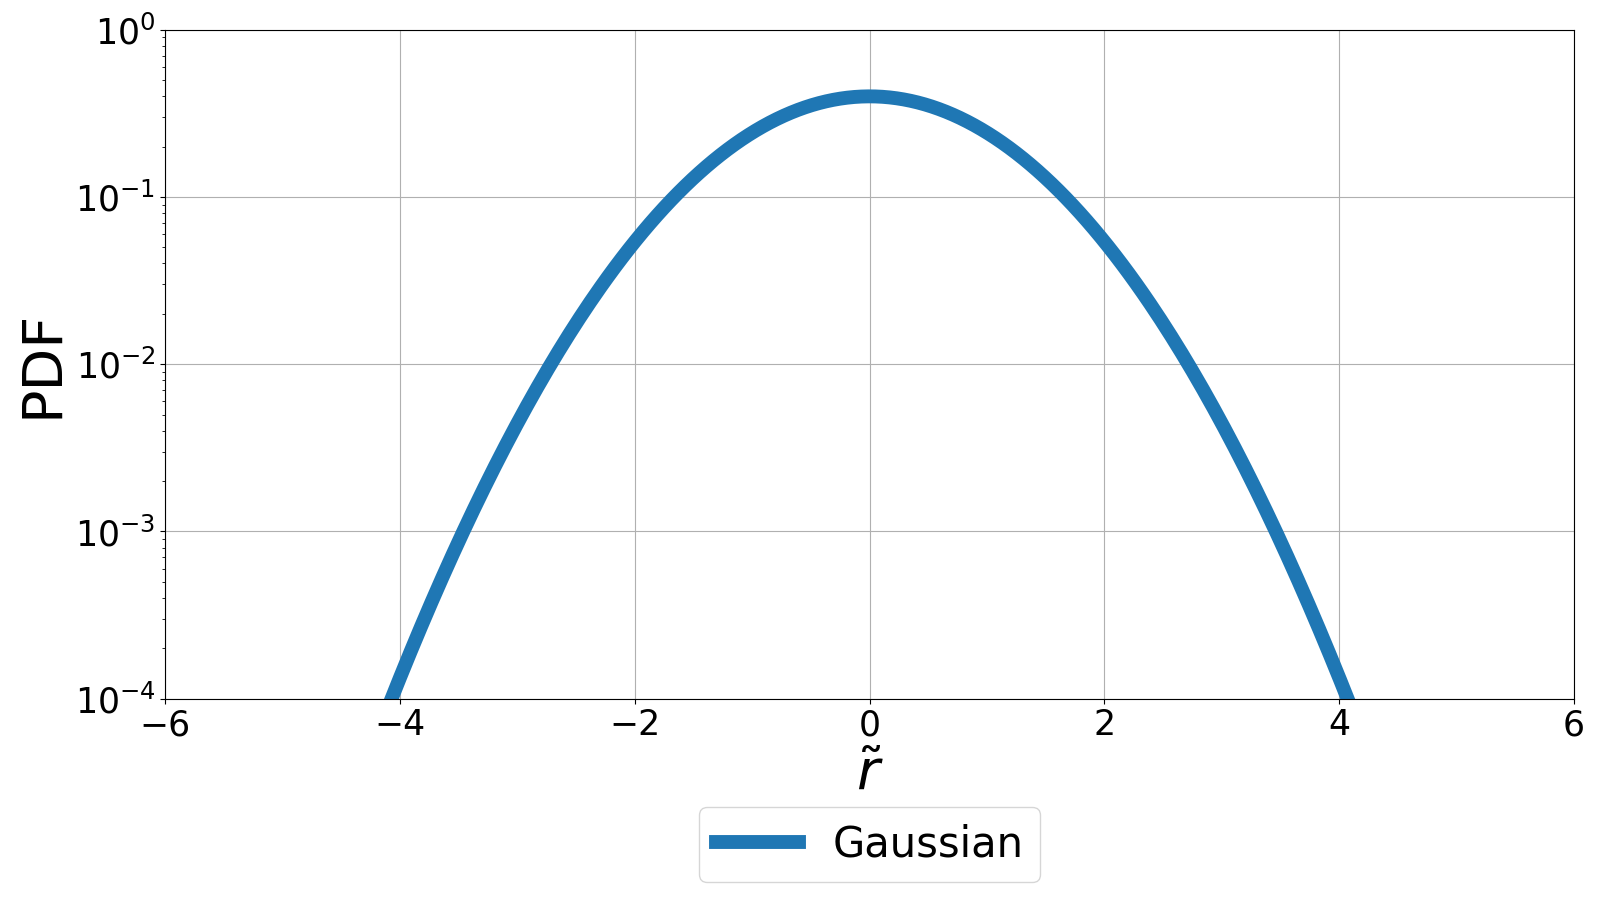
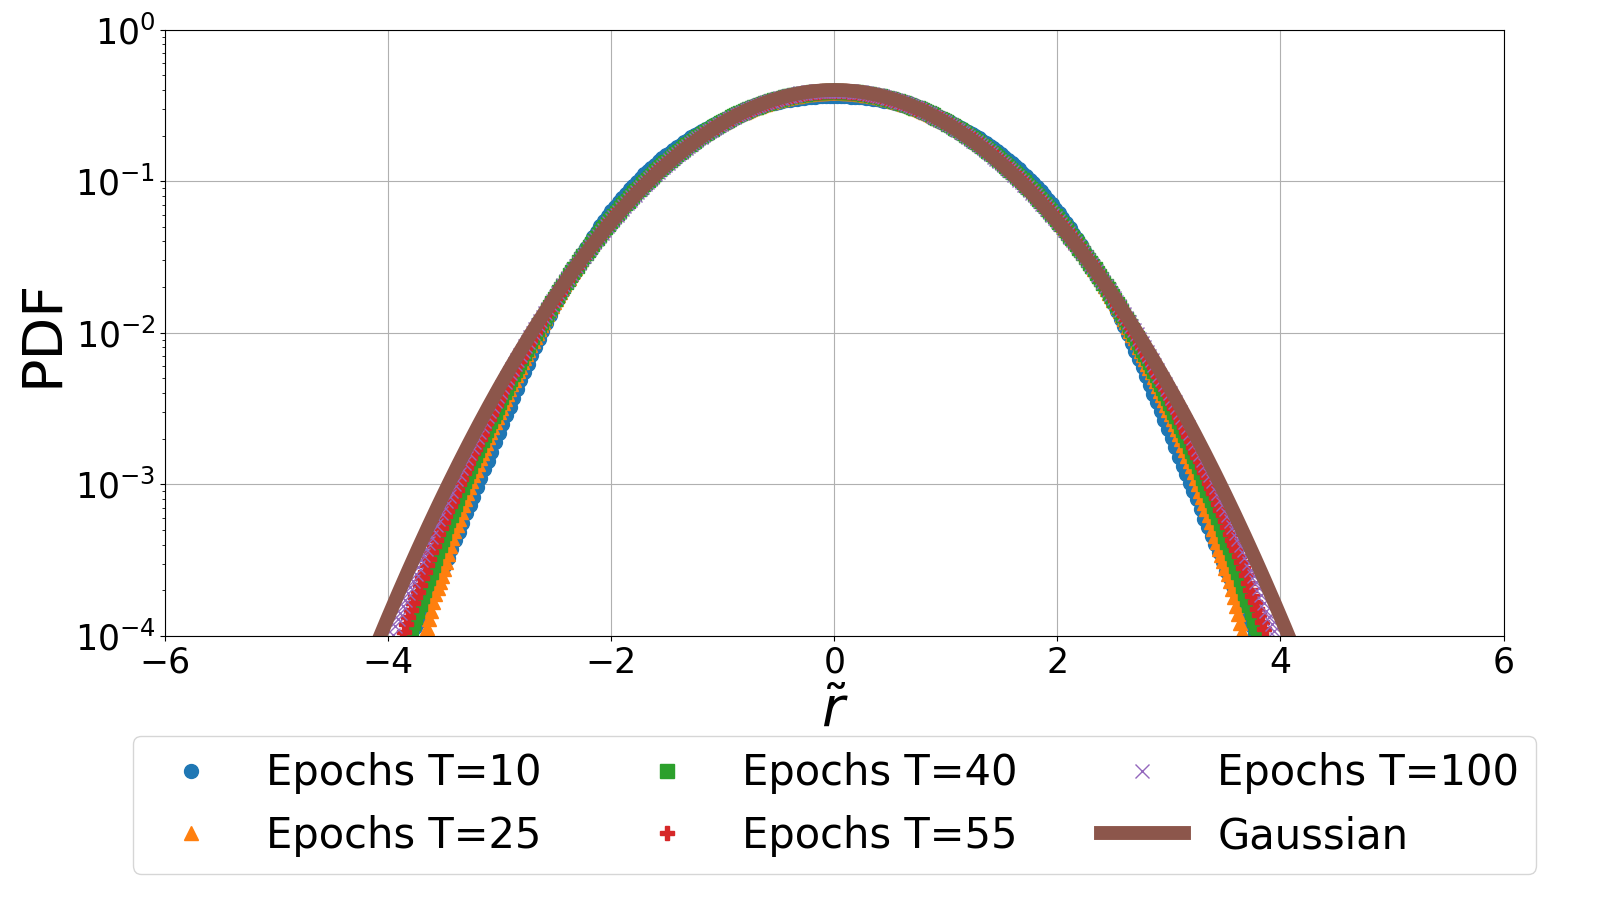
Add plots

diff --git a/paper/algorithms/06_epochs_sim.py b/paper/algorithms/06_epochs_sim.py
@@ -319,12 +319,12 @@ def main() -> None:
     # epochs_sim_agg_ret_pairs(200, normalized=False, kind='algebraic')
     # epochs_sim_agg_ret_pairs(200, normalized=True, kind='algebraic')
 
-    # epochs_sim_ts_norm_agg_ret(200, 'gaussian')
-    # epochs_sim_ts_norm_agg_ret(200, 'algebraic')
+    epochs_sim_ts_norm_agg_ret(200, 'gaussian')
+    epochs_sim_ts_norm_agg_ret(200, 'algebraic')
 
-    epochs_var_win_all_empirical_dist_returns_market_plot(dates, time_steps,
-                                                          [''],
-                                                          ['20', '100', 'all'])
+    # epochs_var_win_all_empirical_dist_returns_market_plot(dates, time_steps,
+    #                                                       [''],
+    #                                                       ['20', '100', 'all'])
 
 
 # -----------------------------------------------------------------------------
